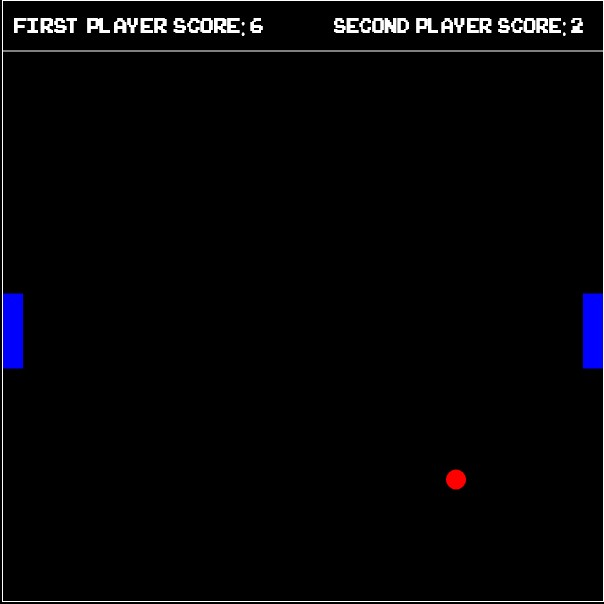
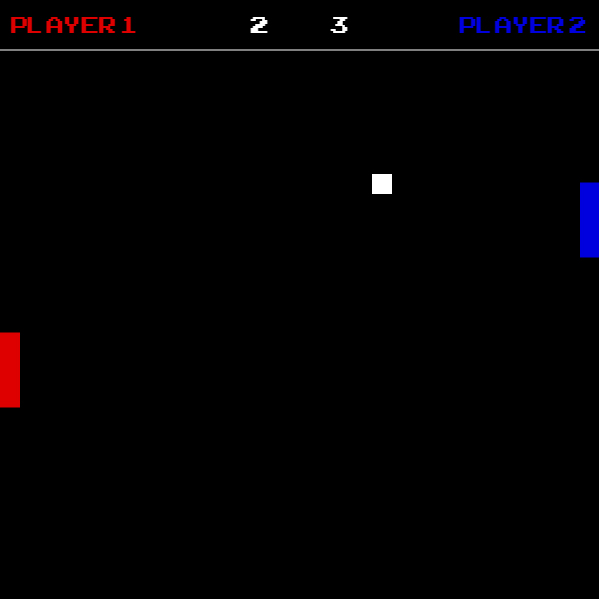
Made some visual changes in ping pong game

diff --git a/TeamMargarita-ArcadeWorld/scripts/ping-pong-gamelogic.js b/TeamMargarita-ArcadeWorld/scripts/ping-pong-gamelogic.js
@@ -36,34 +36,47 @@ function pingPong() {
     // draw functions
     function drawBall() {
         ctx.beginPath();
-        ctx.arc(ballX, ballY, 10, 0, 2 * Math.PI);
-        ctx.fillStyle = 'red';
+        ctx.rect(ballX, ballY, 20, 20);
+        ctx.fillStyle = '#FFFFFF';
         ctx.fill();
         ctx.closePath();
     }
 
-    function drawPaddle(x, y) {
+    function drawPaddle(playerId, x, y) {
         ctx.beginPath();
         ctx.rect(x, y, paddleWidh, paddleHeight);
-        ctx.fillStyle = 'blue';
+        if(playerId === 1){
+        ctx.fillStyle = '#DD0000';
+        }else if(playerId === 2){
+          ctx.fillStyle = '#0000DD';
+        }
         ctx.fill();
         ctx.closePath();
     }
 
-    function drawFirstPlayerScore() {
+    function drawFirstPlayer() {
+        ctx.font = "32px ArcadeFont";
+        ctx.fillStyle = "#DD0000";
+        ctx.textAlign = 'left';
+        ctx.fillText("Player 1 ", 10, 35, 250);
+    }
+
+    function drawSecondPlayer() {
+        ctx.font = "32px ArcadeFont";
+        ctx.fillStyle = "#0000DD";
+        ctx.textAlign = 'right';
+        ctx.fillText("Player 2 ", canvas.width - 10, 35, 250);
+    }
+
+    function drawScore() {
         ctx.font = "32px ArcadeFont";
         ctx.fillStyle = "#FFFFFF";
         ctx.textAlign = 'left';
-        ctx.fillText("First  Player  Score   " + firstPLayerScore, 10, 35, 250);
-
+        ctx.fillText(firstPLayerScore, canvas.width / 2 - 50, 35);
+        ctx.fillText(secondPlayerScore, canvas.width / 2 + 30, 35);
     }
 
-    function drawSecondPlayerScore() {
-        ctx.font = "32px ArcadeFont";
-        ctx.fillStyle = "#FFFFFF";
-        ctx.textAlign = 'left';
-        ctx.fillText("Second  Player  Score   " + secondPlayerScore, canvas.width / 2 + 30, 35, 250);
-    }
+
 
     function drawUpperBound() {
         ctx.beginPath();
@@ -75,7 +88,7 @@ function pingPong() {
 
     function drawMsg(){
         ctx.font = "66px ArcadeFont";
-        ctx.fillStyle = 'blue';
+        ctx.fillStyle = '#FFFFFF';
         ctx.textAlign = 'center';
         ctx.fillText("Prepare", canvas.width/2, canvas.height/2);
       }
@@ -110,8 +123,8 @@ function pingPong() {
                 sKeyPressed = true;
                 wKeyPressed = false;
                 break;
-            case (13): // enter 
-                startPressed = true;    
+            case (13): // enter
+                startPressed = true;
         }
     }
 
@@ -168,6 +181,20 @@ function pingPong() {
 
     // resseting field for nextGame
     function reset(){
+      let randomDirection = Math.floor(Math.random()*4+1);
+      if(randomDirection === 1){
+        ballDeltaX = 3,
+        ballDeltaY = 3.5;
+      }else if(randomDirection === 2){
+        ballDeltaX = -3,
+        ballDeltaY = 3.5;
+      }else if(randomDirection === 2){
+        ballDeltaX = -3,
+        ballDeltaY = -3.5;
+      }else{
+        ballDeltaX = 3,
+        ballDeltaY = -3.5;
+      }
         ballX = canvas.width / 2;
         ballY = canvas.height / 2;
         secondPlayerPaddleX = canvas.width - paddleWidh;
@@ -177,9 +204,10 @@ function pingPong() {
         startPressed = false;
     }
 
-    // check for collision with player paddle if no adding points 
+    // check for collision with player paddle if no adding points
     function collisionCheck() {
-        if (ballX + ballDeltaX < paddleWidh + 10 || ballX + ballDeltaX > canvas.width - paddleWidh - 10) {
+
+        if (ballX + ballDeltaX < paddleWidh || ballX + ballDeltaX > canvas.width - paddleWidh - 15) {
             ballDeltaX *= -1;
             if (((ballY + ballDeltaY < firstPlayerPaddleY ||
                     ballY + ballDeltaY > firstPlayerPaddleY + paddleHeight) && ballDeltaX > 0) ||
@@ -208,7 +236,6 @@ function pingPong() {
     function CheckPlayersScore() {
         if (firstPLayerScore >= 10 || secondPlayerScore >= 10) {
             callNextLvl();
-            clearInterval(loop);
         }
     }
 
@@ -219,28 +246,32 @@ function pingPong() {
         endScreen(); // CALL NEXT GAME
     }
 
-
     function GameLoop() {
         ctx.clearRect(0, 0, 600, 600);
         if (startPressed){
-        drawFirstPlayerScore();
-        drawSecondPlayerScore();
+        drawFirstPlayer();
+        drawSecondPlayer();
+        drawScore();
         drawUpperBound();
         updatePaddleCords();
         collisionCheck();
         CheckPlayersScore();
         updateBall()
         drawBall();
-        drawPaddle(firstPLayerpaddleX, firstPlayerPaddleY);
-        drawPaddle(secondPlayerPaddleX, secondPlayerPaddleY);
+        drawPaddle(1, firstPLayerpaddleX, firstPlayerPaddleY);
+        drawPaddle(2, secondPlayerPaddleX, secondPlayerPaddleY);
         }
         else{
             drawMsg();
             drawInstruction();
         }
+
+        requestAnimationFrame(GameLoop);
     }
 
-
-    loop = setInterval(GameLoop, 25);
-    setInterval(SpeedUp, 10000);
+    GameLoop();
+    if(startPressed)
+    {
+    setInterval(SpeedUp, 5000);
+    }
 }

diff --git a/TeamMargarita-ArcadeWorld/scripts/breakout-gamelogic.js b/TeamMargarita-ArcadeWorld/scripts/breakout-gamelogic.js
@@ -8,11 +8,11 @@ function breakOut() {
       score = 0,
       lives = 6;
   //paddle
-  let paddleHeight = 25,
+  let paddleHeight = 20,
       paddleWidth = 90,
       paddleX = (canvas.width-paddleWidth)/2;
   //ball
-  let squareSide = 25;
+  let squareSide = 20;
   //block
   let blockRows = 6,
       blockColumns = 5,
